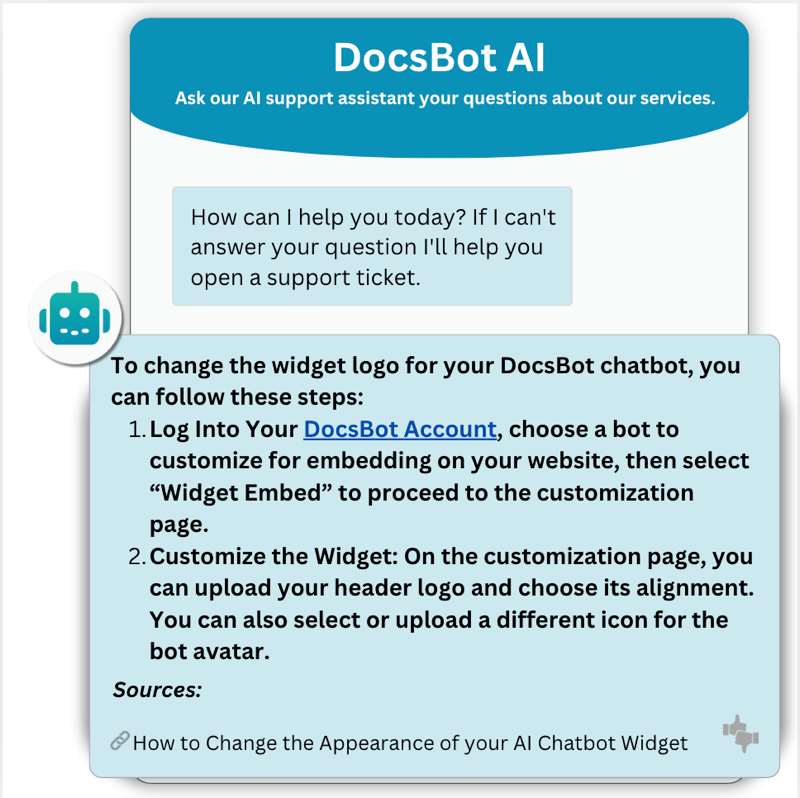
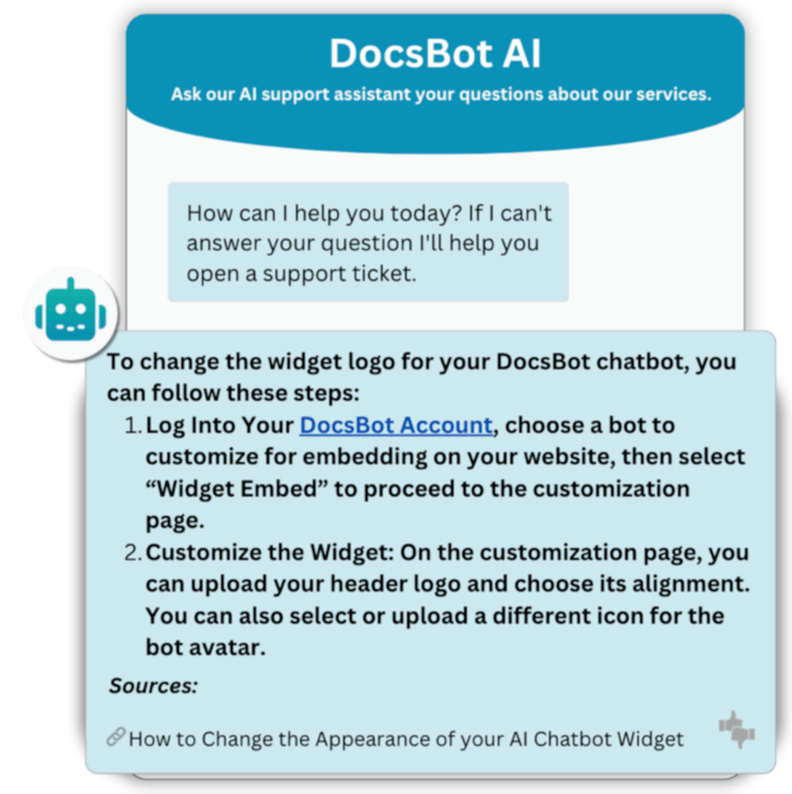
Improve mobile speed

diff --git a/src/pages/index.jsx b/src/pages/index.jsx
@@ -212,6 +212,69 @@ const ParallaxImage = ({ children, className = '' }) => {
   )
 }
 
+const LazyVideo = ({ src, poster, className }) => {
+  const videoRef = useRef(null);
+  
+  useEffect(() => {
+    const video = videoRef.current;
+    if (!video) return;
+
+    const observer = new IntersectionObserver(
+      (entries) => {
+        entries.forEach((entry) => {
+          if (entry.isIntersecting) {
+            console.log('Video in view, attempting to play...'); // Debug log
+            
+            // Set source and load video
+            if (!video.src) {
+              video.src = src;
+            }
+            
+            video.load();
+            
+            // Attempt to play
+            const playPromise = video.play();
+            if (playPromise !== undefined) {
+              playPromise
+                .then(() => console.log('Video playback started'))
+                .catch(error => console.error('Video playback failed:', error));
+            }
+            
+            // Disconnect observer after successful intersection
+            observer.disconnect();
+          }
+        });
+      },
+      {
+        root: null,
+        rootMargin: '100px 0px',
+        threshold: 0.1
+      }
+    );
+
+    observer.observe(video);
+    
+    return () => {
+      observer.disconnect();
+    };
+  }, [src]);
+
+  return (
+    <video
+      ref={videoRef}
+      muted
+      loop
+      playsInline
+      className={className}
+      poster={poster}
+      autoPlay={false}
+      preload="metadata"
+    >
+      <source src={src} type="video/mp4" />
+    </video>
+  );
+};
+
 export default function Home() {
   return (
     <>
@@ -419,19 +482,11 @@ export default function Home() {
                   </ScrollFadeIn>
 
                   <ParallaxImage>
-                    <video
-                      autoPlay
-                      muted
-                      loop
-                      playsInline
-                      className="w-[32rem] max-w-none"
+                    <LazyVideo
+                      src="/video/uses-customer-facing.mp4"
                       poster="/video/uses-customer-facing.png"
-                    >
-                      <source
-                        src="/video/uses-customer-facing.mp4"
-                        type="video/mp4"
-                      />
-                    </video>
+                      className="lg:w-[32rem] max-w-none mx-auto w-full"
+                    />
                   </ParallaxImage>
                 </div>
               </div>
@@ -490,19 +545,11 @@ export default function Home() {
                   </ScrollFadeIn>
 
                   <ParallaxImage className="justify-end lg:order-first">
-                    <video
-                      autoPlay
-                      muted
-                      loop
-                      playsInline
-                      className="w-[32rem] max-w-none"
+                    <LazyVideo
+                      src="/video/uses-enhance-support.mp4"
                       poster="/video/uses-enhance-support.png"
-                    >
-                      <source
-                        src="/video/uses-enhance-support.mp4"
-                        type="video/mp4"
-                      />
-                    </video>
+                      className="lg:w-[32rem] max-w-none mx-auto w-full"
+                    />
                   </ParallaxImage>
                 </div>
               </div>
@@ -551,19 +598,11 @@ export default function Home() {
                     </div>
 
                     <ParallaxImage className="min-w-full max-w-xl lg:row-span-4 lg:-mt-48 lg:w-[32rem] lg:max-w-none">
-                      <video
-                        autoPlay
-                        muted
-                        loop
-                        playsInline
-                        className="relative -z-20 w-[32rem] lg:w-[32rem]"
+                      <LazyVideo
+                        src="/video/uses-knowledgebase.mp4"
                         poster="/video/uses-knowledgebase.png"
-                      >
-                        <source
-                          src="/video/uses-knowledgebase.mp4"
-                          type="video/mp4"
-                        />
-                      </video>
+                        className="relative -z-20 w-full mx-auto lg:w-[32rem]"
+                      />
                     </ParallaxImage>
                     <div className="max-w-xl lg:row-start-3 lg:mt-10 lg:max-w-md lg:border-t lg:border-white/10 lg:pt-10">
                       <dl className="max-w-xl space-y-8 text-base/7 text-gray-300 lg:max-w-none">

diff --git a/src/components/HowItWorks.jsx b/src/components/HowItWorks.jsx
@@ -6,6 +6,7 @@ import {
   AcademicCapIcon,
   ChatBubbleLeftRightIcon,
   RocketLaunchIcon,
+  PlayIcon,
 } from '@heroicons/react/20/solid'
 import React from 'react'
 import { Container } from '@/components/Container'
@@ -86,17 +87,30 @@ function FeaturesMobile() {
           <div className="relative mt-10 pb-10">
             <div className="absolute -inset-x-4 bottom-0 top-8 bg-slate-800 sm:-inset-x-6" />
             <div className="relative mx-auto w-[52.75rem] max-w-full overflow-hidden rounded-xl bg-white shadow-lg shadow-slate-900/5 ring-1 ring-slate-500/10">
-              <video
-                className="h-full w-full object-contain"
-                autoPlay
-                loop
-                muted
-                playsInline
-                poster={feature.poster}
-                key={feature.video}
-              >
-                <source src={feature.video} type="video/mp4" />
-              </video>
+              <div className="relative">
+                <video
+                  className="h-full w-full object-contain"
+                  loop
+                  muted
+                  playsInline
+                  poster={feature.poster}
+                  key={feature.video}
+                  preload="metadata"
+                >
+                  <source src={feature.video} type="video/mp4" />
+                </video>
+                <button
+                  onClick={(e) => {
+                    const video = e.target.closest('.relative').querySelector('video');
+                    video.play();
+                    e.target.closest('button').style.display = 'none';
+                  }}
+                  className="absolute left-1/2 top-1/2 -translate-x-1/2 -translate-y-1/2 rounded-full bg-gray-900/20 p-2 backdrop-blur-sm hover:bg-gray-900/30"
+                >
+                  <PlayIcon className="h-12 w-12 text-white" aria-hidden="true" />
+                  <span className="sr-only">Play video</span>
+                </button>
+              </div>
             </div>
           </div>
         </div>
@@ -107,10 +121,36 @@ function FeaturesMobile() {
 
 function FeaturesDesktop() {
   const [selectedIndex, setSelectedIndex] = React.useState(0)
+  const videoRefs = React.useRef([])
+  const [firstVideoButtonVisible, setFirstVideoButtonVisible] = React.useState(true)
+  const isInitialMount = React.useRef(true)
+
+  const playVideo = (index) => {
+    const video = videoRefs.current[index]
+    if (video?.paused) {
+      video.play()
+      if (index === 0) {
+        setFirstVideoButtonVisible(false)
+      }
+    }
+  }
 
   const handlePanelClick = (clickedIndex) => {
     setSelectedIndex(clickedIndex)
+    if (clickedIndex === selectedIndex) {
+      playVideo(clickedIndex)
+    }
   }
+
+  React.useEffect(() => {
+    if (isInitialMount.current) {
+      isInitialMount.current = false;
+      return;
+    }
+    if (selectedIndex !== 0) {
+      playVideo(selectedIndex)
+    }
+  }, [selectedIndex])
 
   return (
     <Tab.Group
@@ -152,27 +192,32 @@ function FeaturesDesktop() {
               onClick={() => handlePanelClick(featureIndex)}
             >
               <div className="w-[52.75rem] max-w-full overflow-hidden rounded-xl bg-white shadow-lg shadow-slate-900/5 ring-1 ring-slate-500/10">
-                {featureIndex === selectedIndex ? (
+                <div className="relative">
                   <video
+                    ref={el => videoRefs.current[featureIndex] = el}
                     className="h-full w-full object-contain"
-                    autoPlay
                     loop
                     muted
                     playsInline
-                    key={feature.video}
+                    autoPlay={false}
                     poster={feature.poster}
+                    key={feature.video}
+                    preload="metadata"
                   >
                     <source src={feature.video} type="video/mp4" />
                   </video>
-                ) : (
-                  <Image
-                    src={feature.poster}
-                    alt={feature.name}
-                    className="w-full"
-                    width={1236}
-                    height={720}
-                  />
-                )}
+                  {featureIndex === 0 && firstVideoButtonVisible && (
+                    <button
+                      onClick={(e) => {
+                        playVideo(0)
+                      }}
+                      className="absolute left-1/2 top-1/2 -translate-x-1/2 -translate-y-1/2 rounded-full bg-gray-900/20 p-6 backdrop-blur-sm hover:bg-gray-900/30"
+                    >
+                      <PlayIcon className="h-16 w-16 text-white" aria-hidden="true" />
+                      <span className="sr-only">Play video</span>
+                    </button>
+                  )}
+                </div>
               </div>
             </Tab.Panel>
           ))}

diff --git a/src/components/IntegrationsFeatures.jsx b/src/components/IntegrationsFeatures.jsx
@@ -157,7 +157,7 @@ export default function IntegrationsFeatures() {
         ref={scrollRef}
         className={clsx([
           'mt-16 flex gap-8 px-[var(--scroll-padding)]',
-          'min-h-[18rem] overflow-visible',
+          'min-h-[22rem] sm:min-h-[18rem] overflow-visible',
           '[scrollbar-width:none] [&::-webkit-scrollbar]:hidden',
           'snap-x snap-mandatory overflow-x-auto overscroll-x-contain scroll-smooth',
           '[--scroll-padding:max(theme(spacing.6),calc((100vw-theme(maxWidth.2xl))/2))] lg:[--scroll-padding:max(theme(spacing.8),calc((100vw-theme(maxWidth.7xl))/2))]',
@@ -175,7 +175,7 @@ export default function IntegrationsFeatures() {
         <div className="w-[42rem] shrink-0 sm:w-[54rem]" />
       </div>
 
-      <div className="mt-8 hidden justify-center gap-2 md:flex">
+      <div className="mt-0 sm:mt-8 hidden justify-center gap-2 md:flex">
         {integrations.map((_, index) => (
           <button
             key={index}
@@ -192,8 +192,8 @@ export default function IntegrationsFeatures() {
       </div>
 
       {/* New CTA section */}
-      <div className="mt-12 flex flex-col items-center">
-        <div className="mt-8 flex gap-4">
+      <div className="mt-8 md:mt-12 flex flex-col items-center">
+        <div className="flex gap-4">
           <Link
             href="/register"
             className="bg-animation rounded-lg bg-cyan-600 px-6 py-3 text-sm font-semibold text-white shadow-sm hover:bg-cyan-500 focus-visible:outline focus-visible:outline-2 focus-visible:outline-offset-2 focus-visible:outline-cyan-600"

diff --git a/src/components/Faq.jsx b/src/components/Faq.jsx
@@ -90,7 +90,7 @@ export default function Faq() {
         }))}
       />
       <div id="faq" className="bg-white">
-        <div className="mx-auto max-w-7xl px-6 py-24 sm:py-32 lg:px-8 lg:py-40">
+        <div className="mx-auto max-w-7xl px-6 py-16 sm:py-24 lg:px-8 lg:py-32">
           <div className="mx-auto max-w-4xl divide-y divide-gray-900/10">
             <h2 className="text-4xl font-semibold tracking-tight text-gray-900 sm:text-5xl">
               Frequently Asked Questions

diff --git a/src/components/Testimonials.jsx b/src/components/Testimonials.jsx
@@ -275,7 +275,7 @@ export function Testimonials() {
             Join thousands of companies using DocsBot to deliver exceptional
             customer experiences.
           </p>
-          <div className="mt-8 flex gap-4">
+          <div className="mt-8 flex flex-col items-center gap-8 sm:flex-row">
             <Link
               href="/register"
               className="bg-animation rounded-lg bg-cyan-600 px-6 py-3 text-sm font-semibold text-white shadow-sm hover:bg-cyan-500 focus-visible:outline focus-visible:outline-2 focus-visible:outline-offset-2 focus-visible:outline-cyan-600"

diff --git a/src/pages/pricing.jsx b/src/pages/pricing.jsx
@@ -304,7 +304,7 @@ export default function PricingPage() {
                     className="aspect-[1108/632] w-[69.25rem] bg-gradient-to-r from-teal-500 to-cyan-600 opacity-20"
                   />
                 </div>
-                <div className="mx-auto max-w-7xl px-6 pb-12 pt-10 sm:pb-16 lg:px-8 lg:pt-40">
+                <div className="mx-auto max-w-7xl px-6 pb-12 pt-24 sm:pb-16 lg:px-8 lg:pt-40">
                   <motion.div
                     initial={{ opacity: 0, y: 20 }}
                     animate={{ opacity: 1, y: 0 }}